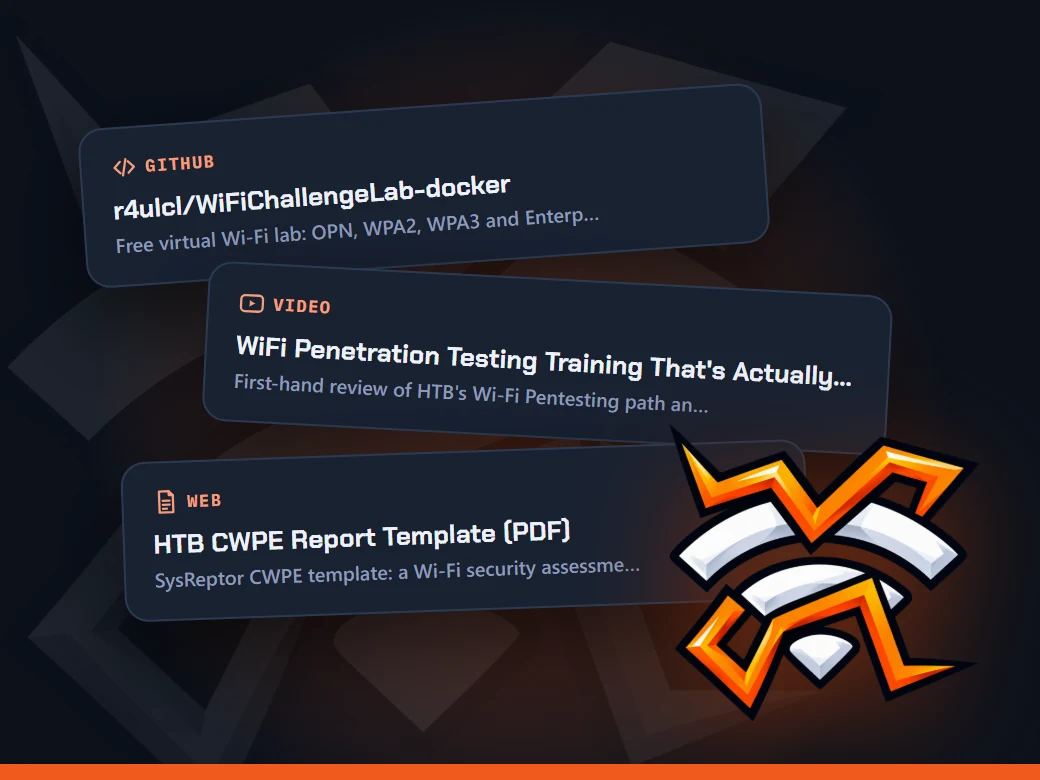
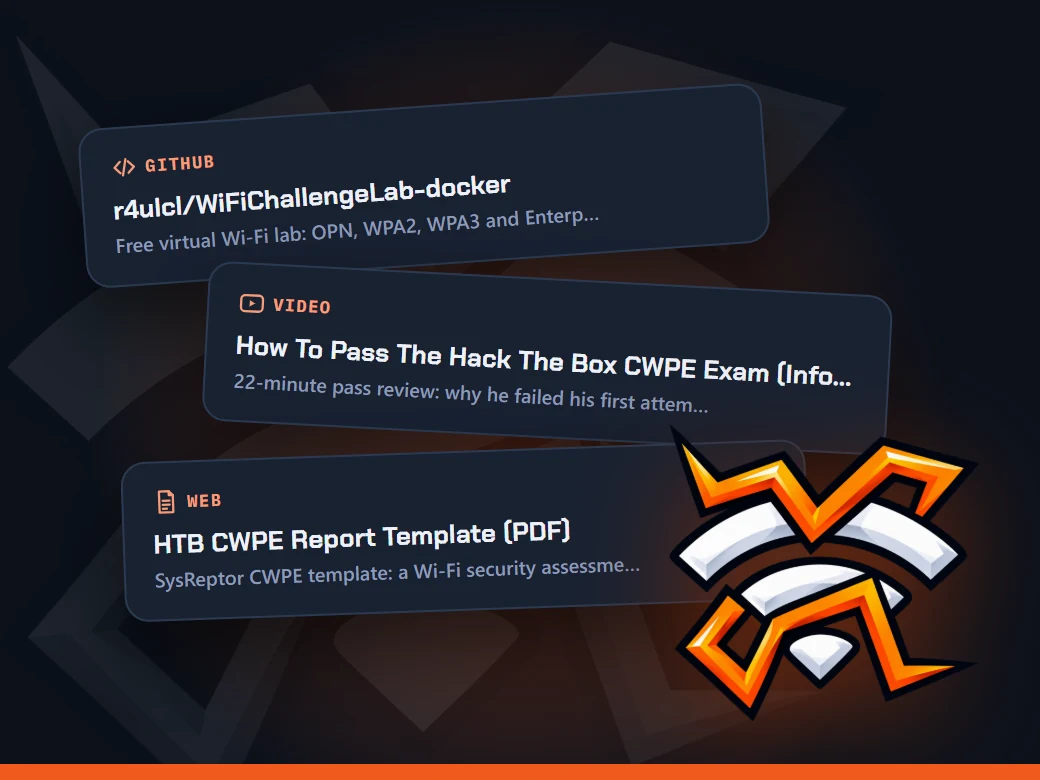
Add InfoSec Pat CWPE pass review as the Video favorite, plus his tips

Changed region(s): [[0.2154, 0.4308, 0.8, 0.5231]]

diff --git a/cwpe/resources/index.html b/cwpe/resources/index.html
@@ -184,18 +184,18 @@
 </div></header>
 <main class="in">
   <div class="panel">
-    <div class="big">52 <small>Links &middot; 10 Sections &middot; 11 Tips</small></div>
+    <div class="big">53 <small>Links &middot; 10 Sections &middot; 21 Tips</small></div>
     <p class="note">The same list is in the tracker's Resources tab. HTB Academy's path is all you need to pass the CWPE. These help you study it, compare notes with people who passed, and get the report right.</p>
   </div>
   <div class="ltabs" role="tablist">
     <button role="tab" id="tab_fav" aria-controls="pane_fav">Favorites<b>5</b></button>
-    <button role="tab" id="tab_all" aria-controls="pane_all">All Resources<b>52</b></button>
+    <button role="tab" id="tab_all" aria-controls="pane_all">All Resources<b>53</b></button>
     <button role="tab" id="tab_cost" aria-controls="pane_cost">What It Costs</button>
   </div>
   <div id="pane_fav" role="tabpanel" aria-labelledby="tab_fav" hidden><p class="favnote">My top picks for the CWPE, one for each part of your prep. They're starred in All Resources too.</p><div id="favs"></div></div>
   <div id="pane_all" role="tabpanel" aria-labelledby="tab_all" hidden>
     <div class="tb">
-      <div class="sw" id="sw"><input type="search" id="q" autocomplete="off" placeholder="Search 52 links" aria-label="Search links"><kbd>/</kbd><button id="clr" aria-label="Clear search">&times;</button></div>
+      <div class="sw" id="sw"><input type="search" id="q" autocomplete="off" placeholder="Search 53 links" aria-label="Search links"><kbd>/</kbd><button id="clr" aria-label="Clear search">&times;</button></div>
       <div class="seg" id="kf" role="group" aria-label="Type"></div>
       <span class="sp"></span>
       <button class="btn" id="ex">Expand all</button><button class="btn" id="co">Collapse all</button>
@@ -209,7 +209,7 @@
 <script>
 "use strict";
 (function () {
-const RL = {"code": "CWPE", "page": true, "res": [{"cat": "Community", "note": "Ask questions, compare notes, and keep up with other people working toward the cert.", "items": [{"n": "Hack The Box Discord", "u": "https://discord.gg/hackthebox", "note": "Official HTB community server", "k": "Community", "d": "discord.gg"}, {"n": "r/hackthebox", "u": "https://www.reddit.com/r/hackthebox/", "note": "HTB subreddit for help & discussion", "k": "Community", "d": "reddit.com"}]}, {"cat": "Official HTB: Cert & Path", "note": "Start here. You have to finish the path 100% to unlock the exam.", "items": [{"n": "HTB Certified Wi-Fi Pentesting Expert (CWPE)", "u": "https://academy.hackthebox.com/preview/certifications/htb-certified-wi-fi-pentesting-expert", "note": "Official certification page", "k": "Official", "d": "academy.hackthebox.com"}, {"n": "Wi-Fi Penetration Tester Job-Role Path", "u": "https://academy.hackthebox.com/path/preview/wi-fi-penetration-tester", "note": "10 modules · 170 sections · Hard", "k": "Official", "d": "academy.hackthebox.com"}, {"n": "Help Center: Academy Certifications", "u": "https://help.hackthebox.com/en/articles/12741732-academy-certifications", "note": "Official exam rules: attempts, report submission, results", "k": "Official", "d": "help.hackthebox.com"}, {"n": "HTB Academy", "u": "https://academy.hackthebox.com/", "note": "Subscription & dashboard", "k": "Official", "d": "academy.hackthebox.com"}, {"n": "HTB Labs", "u": "https://app.hackthebox.com/", "note": "Retired boxes and labs for practice", "k": "Official", "d": "app.hackthebox.com"}]}, {"cat": "HTB Academy Modules (in study order)", "note": "Work through these 10 in sequence. The plan follows this order.", "items": [{"n": "1 · Wi-Fi Penetration Testing Basics", "u": "https://academy.hackthebox.com/course/preview/wi-fi-penetration-testing-basics", "note": "16 sections · Medium", "k": "Official", "d": "academy.hackthebox.com"}, {"n": "2 · Attacking Wi-Fi Protected Setup (WPS)", "u": "https://academy.hackthebox.com/course/preview/attacking-wi-fi-protected-setup-wps", "note": "13 sections · Medium", "k": "Official", "d": "academy.hackthebox.com"}, {"n": "3 · Wired Equivalent Privacy (WEP) Attacks", "u": "https://academy.hackthebox.com/course/preview/wired-equivalent-privacy-wep-attacks", "note": "13 sections · Medium", "k": "Official", "d": "academy.hackthebox.com"}, {"n": "4 · Attacking WPA/WPA2 Wi-Fi Networks", "u": "https://academy.hackthebox.com/course/preview/attacking-wpawpa2-wi-fi-networks", "note": "15 sections · Medium", "k": "Official", "d": "academy.hackthebox.com"}, {"n": "5 · Wi-Fi Evil Twin Attacks", "u": "https://academy.hackthebox.com/course/preview/wi-fi-evil-twin-attacks", "note": "16 sections · Medium", "k": "Official", "d": "academy.hackthebox.com"}, {"n": "6 · Attacking WPA3 Wi-Fi Networks", "u": "https://academy.hackthebox.com/course/preview/attacking-wpa3-wi-fi-networks", "note": "16 sections · Medium", "k": "Official", "d": "academy.hackthebox.com"}, {"n": "7 · Bypassing Wi-Fi Captive Portals", "u": "https://academy.hackthebox.com/course/preview/bypassing-wi-fi-captive-portals", "note": "17 sections · Medium", "k": "Official", "d": "academy.hackthebox.com"}, {"n": "8 · Wi-Fi Password Cracking Techniques", "u": "https://academy.hackthebox.com/course/preview/wi-fi-password-cracking-techniques", "note": "16 sections · Medium", "k": "Official", "d": "academy.hackthebox.com"}, {"n": "9 · Wi-Fi Penetration Testing Tools and Techniques", "u": "https://academy.hackthebox.com/course/preview/wi-fi-penetration-testing-tools-and-techniques", "note": "30 sections · Medium", "k": "Official", "d": "academy.hackthebox.com"}, {"n": "10 · Attacking Corporate Wi-Fi Networks", "u": "https://academy.hackthebox.com/course/preview/attacking-corporate-wi-fi-networks", "note": "18 sections · Medium", "k": "Official", "d": "academy.hackthebox.com"}]}, {"cat": "Video Series & Reviews", "note": "Watch this before you start to set expectations. It reviews the Wi-Fi Pentesting path that preps for CWPE.", "items": [{"n": "WiFi Penetration Testing Training That's Actually Worth It (HaxrByte)", "u": "https://www.youtube.com/watch?v=uaQFFFh6Y6A", "note": "First-hand review of HTB's Wi-Fi Pentesting path and the CWPE exam", "k": "Video", "d": "youtube.com"}]}, {"cat": "News & Overviews", "note": "CWPE launched in 2026, so there are no exam-taker write-ups yet. These are HTB's own overviews.", "items": [{"n": "Bring your attack surface to the air: HTB CWPE (HTB blog)", "u": "https://www.hackthebox.com/blog/HTB-CWPE-announcement-blog", "note": "Official launch post: exam format and the protocols covered", "k": "Official", "d": "hackthebox.com"}, {"n": "Enterprise Wi-Fi: the attack surface you're not testing (HTB blog)", "u": "https://www.hackthebox.com/blog/enterprise-wifi-pentesting-risk-cwpe", "note": "Why HTB built the cert and what it targets", "k": "Official", "d": "hackthebox.com"}, {"n": "Introducing the HTB CWPE (HTB changelog)", "u": "https://roadmap.hackthebox.com/changelog/introducing-the-htb-certified-wi-fi-pentesting-expert-cwpe", "note": "Short changelog confirming the cloud exam and path", "k": "Official", "d": "roadmap.hackthebox.com"}]}, {"cat": "Community Notes & Walkthroughs", "note": "No CWPE-specific notes exist yet, so these are general wireless references. Use them to unblock yourself, not to shortcut the labs.", "items": [{"n": "V0lk3n/WirelessPentesting-CheatSheet", "u": "https://github.com/V0lk3n/WirelessPentesting-CheatSheet", "note": "Broad Wi-Fi cracking cheat sheet: WEP, WPA, aircrack-ng", "k": "GitHub", "d": "github.com"}, {"n": "armourinfosec/Wireless-Security-and-WiFi-Penetration-Testing", "u": "https://github.com/armourinfosec/Wireless-Security-and-WiFi-Penetration-Testing", "note": "Study notes on 802.11 and WEP/WPA/WPA2/WPA3", "k": "GitHub", "d": "github.com"}, {"n": "touhidshaikh/Wireless-Pentest-Cheatsheet", "u": "https://github.com/touhidshaikh/Wireless-Pentest-Cheatsheet", "note": "Concise Wi-Fi and wireless cheat sheet", "k": "GitHub", "d": "github.com"}, {"n": "HackTricks: Wi-Fi Pentesting Methodology", "u": "https://hacktricks.wiki/en/generic-methodologies-and-resources/pentesting-wifi/index.html", "note": "Structured Wi-Fi assessment methodology, from recon to retesting", "k": "Web", "d": "hacktricks.wiki"}]}, {"cat": "Reporting & Exam Prep", "note": "The report is graded alongside the points, so practice the deliverable, not just the attacks.", "items": [{"n": "HTB CWPE Report Template (PDF)", "u": "https://docs.sysreptor.com/assets/reports/HTB-CWPE-Report.pdf", "note": "SysReptor CWPE template: a Wi-Fi security assessment report of findings", "k": "Web", "d": "docs.sysreptor.com"}, {"n": "Syslifters/HackTheBox-Reporting", "u": "https://github.com/Syslifters/HackTheBox-Reporting", "note": "SysReptor templates, including HTB CWPE", "k": "GitHub", "d": "github.com"}, {"n": "SysReptor (reporting platform)", "u": "https://github.com/Syslifters/sysreptor", "note": "Self-hosted or cloud report writing", "k": "GitHub", "d": "github.com"}]}, {"cat": "Tooling & References", "note": "Be comfortable with these before the exam.", "items": [{"n": "Aircrack-ng", "u": "https://www.aircrack-ng.org/", "note": "The core Wi-Fi capture and cracking suite", "k": "Web", "d": "aircrack-ng.org"}, {"n": "Kismet", "u": "https://www.kismetwireless.net/", "note": "Wireless detection and sniffing", "k": "Web", "d": "kismetwireless.net"}, {"n": "Wifite2", "u": "https://github.com/kimocoder/wifite2", "note": "Automated Wi-Fi attack wrapper", "k": "GitHub", "d": "github.com"}, {"n": "hashcat", "u": "https://hashcat.net/hashcat/", "note": "GPU password and handshake cracking", "k": "Web", "d": "hashcat.net"}, {"n": "hcxtools", "u": "https://github.com/ZerBea/hcxtools", "note": "PMKID and handshake capture and conversion", "k": "GitHub", "d": "github.com"}, {"n": "Airgeddon", "u": "https://github.com/v1s1t0r1sh3r3/airgeddon", "note": "Multi-use Wi-Fi attack framework", "k": "GitHub", "d": "github.com"}, {"n": "EAPHammer", "u": "https://github.com/s0lst1c3/eaphammer", "note": "WPA-Enterprise evil twin attacks", "k": "GitHub", "d": "github.com"}, {"n": "Wifipumpkin3", "u": "https://github.com/P0cL4bs/wifipumpkin3", "note": "Rogue AP and MiTM framework", "k": "GitHub", "d": "github.com"}, {"n": "Bettercap", "u": "https://github.com/bettercap/bettercap", "note": "Network and Wi-Fi MiTM toolkit", "k": "GitHub", "d": "github.com"}, {"n": "Reaver", "u": "https://github.com/t6x/reaver-wps-fork-t6x", "note": "WPS PIN and Pixie Dust attacks", "k": "GitHub", "d": "github.com"}, {"n": "Fluxion", "u": "https://github.com/FluxionNetwork/fluxion", "note": "Evil twin and captive portal attacks", "k": "GitHub", "d": "github.com"}, {"n": "hostapd", "u": "https://w1.fi/hostapd/", "note": "The open-source AP and 802.1X/EAP/RADIUS daemon behind most rogue AP tools", "k": "Web", "d": "w1.fi"}, {"n": "b5null/EAPBurst", "u": "https://github.com/b5null/EAPBurst", "note": "Tests PEAP/MSCHAPv2 logins against a WPA-Enterprise network from a username and password list", "k": "GitHub", "d": "github.com"}, {"n": "ZerBea/hcxdumptool", "u": "https://github.com/ZerBea/hcxdumptool", "note": "Capture tool for PMKID and handshakes, the companion to hcxtools", "k": "GitHub", "d": "github.com"}]}, {"cat": "Wireless References", "note": "Background and reference beyond the path.", "items": [{"n": "Wi-Fi Alliance: Security", "u": "https://www.wi-fi.org/discover-wi-fi/security", "note": "The standards behind WPA2 and WPA3", "k": "Web", "d": "wi-fi.org"}, {"n": "Aircrack-ng documentation", "u": "https://www.aircrack-ng.org/documentation.html", "note": "Tutorials for each tool in the suite", "k": "Web", "d": "aircrack-ng.org"}, {"n": "WiGLE", "u": "https://wigle.net/", "note": "Wireless network mapping database", "k": "Web", "d": "wigle.net"}, {"n": "Dragonblood: Analysing WPA3's Dragonfly Handshake (Vanhoef, Ronen)", "u": "https://wpa3.mathyvanhoef.com/", "note": "The original research on WPA3-SAE weaknesses and downgrade issues", "k": "Web", "d": "wpa3.mathyvanhoef.com"}, {"n": "KRACK Attacks: Breaking WPA2 (Vanhoef)", "u": "https://www.krackattacks.com/", "note": "Research site on the WPA2 4-way handshake key reinstallation flaws", "k": "Web", "d": "krackattacks.com"}, {"n": "RFC 3748: Extensible Authentication Protocol (EAP)", "u": "https://www.rfc-editor.org/rfc/rfc3748", "note": "The EAP standard used by WPA-Enterprise", "k": "Web", "d": "rfc-editor.org"}, {"n": "Wireshark Wiki: Wi-Fi (IEEE 802.11)", "u": "https://wiki.wireshark.org/Wi-Fi", "note": "802.11 capture types, monitor mode notes and decryption pointers", "k": "Web", "d": "wiki.wireshark.org"}]}, {"cat": "Practice Labs & Home Lab", "note": "The exam runs in HTB's cloud, so these are optional: extra reps and gear for a home lab.", "items": [{"n": "r4ulcl/WiFiChallengeLab-docker", "u": "https://github.com/r4ulcl/WiFiChallengeLab-docker", "note": "Free virtual Wi-Fi lab: OPN, WPA2, WPA3 and Enterprise targets, no adapter needed", "k": "GitHub", "d": "github.com"}, {"n": "HTB: Wifinetic (0xdf)", "u": "https://0xdf.gitlab.io/2023/09/16/htb-wifinetic.html", "note": "Write-up of a retired Easy HTB box with a Wi-Fi (WPS) step", "k": "Web", "d": "0xdf.gitlab.io"}, {"n": "HTB: WifineticTwo (0xdf)", "u": "https://0xdf.gitlab.io/2024/07/27/htb-wifinetictwo.html", "note": "Write-up of a retired Medium HTB box that ends in a WPS and router pivot", "k": "Web", "d": "0xdf.gitlab.io"}]}, {"cat": "Study & Prep Tips", "note": "CWPE is new, so these come from HTB's official guidance and wireless-pentest references, not exam-takers.", "layout": "tips", "items": [{"n": "Finish the full Wi-Fi Penetration Tester path before booking", "note": "JXoaT"}, {"n": "Practice full corporate Wi-Fi attack chains end to end", "note": "JXoaT"}, {"n": "Read the letter of engagement and stay in scope", "note": "JXoaT"}, {"n": "Document every finding with remediation in the template", "note": "JXoaT"}, {"n": "Drill evil twin and captive portal bypass attacks", "note": "JXoaT"}, {"n": "Get fluent in eaphammer and wifipumpkin3 for WPA-Enterprise", "note": "JXoaT"}, {"n": "Master aircrack-ng capture and handshake cracking basics", "note": "V0lk3n"}, {"n": "Set your adapter to monitor mode and channel before capturing", "note": "V0lk3n"}, {"n": "Keep your methodology's per-attack commands within reach", "note": "V0lk3n"}, {"n": "Study the differences between WEP, WPA, WPA2 and WPA3", "note": "armourinfosec"}, {"n": "Learn the full methodology from 802.11 basics up to WPA2-Enterprise RADIUS attacks", "note": "HaxrByte"}]}], "fav": [{"slot": "Start here", "n": "HTB Certified Wi-Fi Pentesting Expert (CWPE)", "u": "https://academy.hackthebox.com/preview/certifications/htb-certified-wi-fi-pentesting-expert", "note": "Official certification page", "k": "Official", "d": "academy.hackthebox.com", "sec": "Official HTB: Cert & Path"}, {"slot": "Practice", "n": "r4ulcl/WiFiChallengeLab-docker", "u": "https://github.com/r4ulcl/WiFiChallengeLab-docker", "note": "Free virtual Wi-Fi lab: OPN, WPA2, WPA3 and Enterprise targets, no adapter needed", "k": "GitHub", "d": "github.com", "sec": "Practice Labs & Home Lab"}, {"slot": "Report", "n": "HTB CWPE Report Template (PDF)", "u": "https://docs.sysreptor.com/assets/reports/HTB-CWPE-Report.pdf", "note": "SysReptor CWPE template: a Wi-Fi security assessment report of findings", "k": "Web", "d": "docs.sysreptor.com", "sec": "Reporting & Exam Prep"}, {"slot": "Notes", "n": "armourinfosec/Wireless-Security-and-WiFi-Penetration-Testing", "u": "https://github.com/armourinfosec/Wireless-Security-and-WiFi-Penetration-Testing", "note": "Study notes on 802.11 and WEP/WPA/WPA2/WPA3", "k": "GitHub", "d": "github.com", "sec": "Community Notes & Walkthroughs"}, {"slot": "Video", "n": "WiFi Penetration Testing Training That's Actually Worth It (HaxrByte)", "u": "https://www.youtube.com/watch?v=uaQFFFh6Y6A", "note": "First-hand review of HTB's Wi-Fi Pentesting path and the CWPE exam", "k": "Video", "d": "youtube.com", "sec": "Video Series & Reviews"}], "cost": {"code": "CWPE", "v": 350, "labs": "", "plans": [{"k": "gold", "n": "Gold monthly", "per": 95, "unit": "mo", "inc": false, "student": false, "over": false}, {"k": "gold_y", "n": "Gold Annual", "per": 1400, "unit": "yr", "inc": true, "student": false, "over": false}], "labsPrice": {"mo": 25, "yr": 223}, "proPrice": {"mo": 49, "yr": 490}}, "modes": [25, 30, 40, 60, 120], "defaultMode": 25, "trackerKey": "cwpe_tracker_v2", "costFine": "Academy prices from October 12, 2026 and Labs prices from October 2, 2026, in USD before tax. Days are rounded up to whole months (30 days each), and you can cancel sooner if you finish early. Plans change, so check HTB's <a href=\"https://help.hackthebox.com/en/articles/13677074-academy-subscriptions\" target=\"_blank\" rel=\"noopener\">Academy<\/a> and <a href=\"https://help.hackthebox.com/en/articles/7257535-htb-labs-subscriptions\" target=\"_blank\" rel=\"noopener\">Labs<\/a> subscription pages before you buy."};
+const RL = {"code": "CWPE", "page": true, "res": [{"cat": "Community", "note": "Ask questions, compare notes, and keep up with other people working toward the cert.", "items": [{"n": "Hack The Box Discord", "u": "https://discord.gg/hackthebox", "note": "Official HTB community server", "k": "Community", "d": "discord.gg"}, {"n": "r/hackthebox", "u": "https://www.reddit.com/r/hackthebox/", "note": "HTB subreddit for help & discussion", "k": "Community", "d": "reddit.com"}]}, {"cat": "Official HTB: Cert & Path", "note": "Start here. You have to finish the path 100% to unlock the exam.", "items": [{"n": "HTB Certified Wi-Fi Pentesting Expert (CWPE)", "u": "https://academy.hackthebox.com/preview/certifications/htb-certified-wi-fi-pentesting-expert", "note": "Official certification page", "k": "Official", "d": "academy.hackthebox.com"}, {"n": "Wi-Fi Penetration Tester Job-Role Path", "u": "https://academy.hackthebox.com/path/preview/wi-fi-penetration-tester", "note": "10 modules · 170 sections · Hard", "k": "Official", "d": "academy.hackthebox.com"}, {"n": "Help Center: Academy Certifications", "u": "https://help.hackthebox.com/en/articles/12741732-academy-certifications", "note": "Official exam rules: attempts, report submission, results", "k": "Official", "d": "help.hackthebox.com"}, {"n": "HTB Academy", "u": "https://academy.hackthebox.com/", "note": "Subscription & dashboard", "k": "Official", "d": "academy.hackthebox.com"}, {"n": "HTB Labs", "u": "https://app.hackthebox.com/", "note": "Retired boxes and labs for practice", "k": "Official", "d": "app.hackthebox.com"}]}, {"cat": "HTB Academy Modules (in study order)", "note": "Work through these 10 in sequence. The plan follows this order.", "items": [{"n": "1 · Wi-Fi Penetration Testing Basics", "u": "https://academy.hackthebox.com/course/preview/wi-fi-penetration-testing-basics", "note": "16 sections · Medium", "k": "Official", "d": "academy.hackthebox.com"}, {"n": "2 · Attacking Wi-Fi Protected Setup (WPS)", "u": "https://academy.hackthebox.com/course/preview/attacking-wi-fi-protected-setup-wps", "note": "13 sections · Medium", "k": "Official", "d": "academy.hackthebox.com"}, {"n": "3 · Wired Equivalent Privacy (WEP) Attacks", "u": "https://academy.hackthebox.com/course/preview/wired-equivalent-privacy-wep-attacks", "note": "13 sections · Medium", "k": "Official", "d": "academy.hackthebox.com"}, {"n": "4 · Attacking WPA/WPA2 Wi-Fi Networks", "u": "https://academy.hackthebox.com/course/preview/attacking-wpawpa2-wi-fi-networks", "note": "15 sections · Medium", "k": "Official", "d": "academy.hackthebox.com"}, {"n": "5 · Wi-Fi Evil Twin Attacks", "u": "https://academy.hackthebox.com/course/preview/wi-fi-evil-twin-attacks", "note": "16 sections · Medium", "k": "Official", "d": "academy.hackthebox.com"}, {"n": "6 · Attacking WPA3 Wi-Fi Networks", "u": "https://academy.hackthebox.com/course/preview/attacking-wpa3-wi-fi-networks", "note": "16 sections · Medium", "k": "Official", "d": "academy.hackthebox.com"}, {"n": "7 · Bypassing Wi-Fi Captive Portals", "u": "https://academy.hackthebox.com/course/preview/bypassing-wi-fi-captive-portals", "note": "17 sections · Medium", "k": "Official", "d": "academy.hackthebox.com"}, {"n": "8 · Wi-Fi Password Cracking Techniques", "u": "https://academy.hackthebox.com/course/preview/wi-fi-password-cracking-techniques", "note": "16 sections · Medium", "k": "Official", "d": "academy.hackthebox.com"}, {"n": "9 · Wi-Fi Penetration Testing Tools and Techniques", "u": "https://academy.hackthebox.com/course/preview/wi-fi-penetration-testing-tools-and-techniques", "note": "30 sections · Medium", "k": "Official", "d": "academy.hackthebox.com"}, {"n": "10 · Attacking Corporate Wi-Fi Networks", "u": "https://academy.hackthebox.com/course/preview/attacking-corporate-wi-fi-networks", "note": "18 sections · Medium", "k": "Official", "d": "academy.hackthebox.com"}]}, {"cat": "Video Series & Reviews", "note": "Watch these before you start to set expectations for the Wi-Fi Pentesting path and the CWPE exam.", "items": [{"n": "WiFi Penetration Testing Training That's Actually Worth It (HaxrByte)", "u": "https://www.youtube.com/watch?v=uaQFFFh6Y6A", "note": "First-hand review of HTB's Wi-Fi Pentesting path and the CWPE exam", "k": "Video", "d": "youtube.com"}, {"n": "How To Pass The Hack The Box CWPE Exam (InfoSec Pat)", "u": "https://www.youtube.com/watch?v=4-Xlki7Noqg", "note": "22-minute pass review: why he failed his first attempt, his methodology, and how to prepare", "k": "Video", "d": "youtube.com"}]}, {"cat": "News & Overviews", "note": "These are HTB's own overviews of the cert.", "items": [{"n": "Bring your attack surface to the air: HTB CWPE (HTB blog)", "u": "https://www.hackthebox.com/blog/HTB-CWPE-announcement-blog", "note": "Official launch post: exam format and the protocols covered", "k": "Official", "d": "hackthebox.com"}, {"n": "Enterprise Wi-Fi: the attack surface you're not testing (HTB blog)", "u": "https://www.hackthebox.com/blog/enterprise-wifi-pentesting-risk-cwpe", "note": "Why HTB built the cert and what it targets", "k": "Official", "d": "hackthebox.com"}, {"n": "Introducing the HTB CWPE (HTB changelog)", "u": "https://roadmap.hackthebox.com/changelog/introducing-the-htb-certified-wi-fi-pentesting-expert-cwpe", "note": "Short changelog confirming the cloud exam and path", "k": "Official", "d": "roadmap.hackthebox.com"}]}, {"cat": "Community Notes & Walkthroughs", "note": "No CWPE-specific notes exist yet, so these are general wireless references. Use them to unblock yourself, not to shortcut the labs.", "items": [{"n": "V0lk3n/WirelessPentesting-CheatSheet", "u": "https://github.com/V0lk3n/WirelessPentesting-CheatSheet", "note": "Broad Wi-Fi cracking cheat sheet: WEP, WPA, aircrack-ng", "k": "GitHub", "d": "github.com"}, {"n": "armourinfosec/Wireless-Security-and-WiFi-Penetration-Testing", "u": "https://github.com/armourinfosec/Wireless-Security-and-WiFi-Penetration-Testing", "note": "Study notes on 802.11 and WEP/WPA/WPA2/WPA3", "k": "GitHub", "d": "github.com"}, {"n": "touhidshaikh/Wireless-Pentest-Cheatsheet", "u": "https://github.com/touhidshaikh/Wireless-Pentest-Cheatsheet", "note": "Concise Wi-Fi and wireless cheat sheet", "k": "GitHub", "d": "github.com"}, {"n": "HackTricks: Wi-Fi Pentesting Methodology", "u": "https://hacktricks.wiki/en/generic-methodologies-and-resources/pentesting-wifi/index.html", "note": "Structured Wi-Fi assessment methodology, from recon to retesting", "k": "Web", "d": "hacktricks.wiki"}]}, {"cat": "Reporting & Exam Prep", "note": "The report is graded alongside the points, so practice the deliverable, not just the attacks.", "items": [{"n": "HTB CWPE Report Template (PDF)", "u": "https://docs.sysreptor.com/assets/reports/HTB-CWPE-Report.pdf", "note": "SysReptor CWPE template: a Wi-Fi security assessment report of findings", "k": "Web", "d": "docs.sysreptor.com"}, {"n": "Syslifters/HackTheBox-Reporting", "u": "https://github.com/Syslifters/HackTheBox-Reporting", "note": "SysReptor templates, including HTB CWPE", "k": "GitHub", "d": "github.com"}, {"n": "SysReptor (reporting platform)", "u": "https://github.com/Syslifters/sysreptor", "note": "Self-hosted or cloud report writing", "k": "GitHub", "d": "github.com"}]}, {"cat": "Tooling & References", "note": "Be comfortable with these before the exam.", "items": [{"n": "Aircrack-ng", "u": "https://www.aircrack-ng.org/", "note": "The core Wi-Fi capture and cracking suite", "k": "Web", "d": "aircrack-ng.org"}, {"n": "Kismet", "u": "https://www.kismetwireless.net/", "note": "Wireless detection and sniffing", "k": "Web", "d": "kismetwireless.net"}, {"n": "Wifite2", "u": "https://github.com/kimocoder/wifite2", "note": "Automated Wi-Fi attack wrapper", "k": "GitHub", "d": "github.com"}, {"n": "hashcat", "u": "https://hashcat.net/hashcat/", "note": "GPU password and handshake cracking", "k": "Web", "d": "hashcat.net"}, {"n": "hcxtools", "u": "https://github.com/ZerBea/hcxtools", "note": "PMKID and handshake capture and conversion", "k": "GitHub", "d": "github.com"}, {"n": "Airgeddon", "u": "https://github.com/v1s1t0r1sh3r3/airgeddon", "note": "Multi-use Wi-Fi attack framework", "k": "GitHub", "d": "github.com"}, {"n": "EAPHammer", "u": "https://github.com/s0lst1c3/eaphammer", "note": "WPA-Enterprise evil twin attacks", "k": "GitHub", "d": "github.com"}, {"n": "Wifipumpkin3", "u": "https://github.com/P0cL4bs/wifipumpkin3", "note": "Rogue AP and MiTM framework", "k": "GitHub", "d": "github.com"}, {"n": "Bettercap", "u": "https://github.com/bettercap/bettercap", "note": "Network and Wi-Fi MiTM toolkit", "k": "GitHub", "d": "github.com"}, {"n": "Reaver", "u": "https://github.com/t6x/reaver-wps-fork-t6x", "note": "WPS PIN and Pixie Dust attacks", "k": "GitHub", "d": "github.com"}, {"n": "Fluxion", "u": "https://github.com/FluxionNetwork/fluxion", "note": "Evil twin and captive portal attacks", "k": "GitHub", "d": "github.com"}, {"n": "hostapd", "u": "https://w1.fi/hostapd/", "note": "The open-source AP and 802.1X/EAP/RADIUS daemon behind most rogue AP tools", "k": "Web", "d": "w1.fi"}, {"n": "b5null/EAPBurst", "u": "https://github.com/b5null/EAPBurst", "note": "Tests PEAP/MSCHAPv2 logins against a WPA-Enterprise network from a username and password list", "k": "GitHub", "d": "github.com"}, {"n": "ZerBea/hcxdumptool", "u": "https://github.com/ZerBea/hcxdumptool", "note": "Capture tool for PMKID and handshakes, the companion to hcxtools", "k": "GitHub", "d": "github.com"}]}, {"cat": "Wireless References", "note": "Background and reference beyond the path.", "items": [{"n": "Wi-Fi Alliance: Security", "u": "https://www.wi-fi.org/discover-wi-fi/security", "note": "The standards behind WPA2 and WPA3", "k": "Web", "d": "wi-fi.org"}, {"n": "Aircrack-ng documentation", "u": "https://www.aircrack-ng.org/documentation.html", "note": "Tutorials for each tool in the suite", "k": "Web", "d": "aircrack-ng.org"}, {"n": "WiGLE", "u": "https://wigle.net/", "note": "Wireless network mapping database", "k": "Web", "d": "wigle.net"}, {"n": "Dragonblood: Analysing WPA3's Dragonfly Handshake (Vanhoef, Ronen)", "u": "https://wpa3.mathyvanhoef.com/", "note": "The original research on WPA3-SAE weaknesses and downgrade issues", "k": "Web", "d": "wpa3.mathyvanhoef.com"}, {"n": "KRACK Attacks: Breaking WPA2 (Vanhoef)", "u": "https://www.krackattacks.com/", "note": "Research site on the WPA2 4-way handshake key reinstallation flaws", "k": "Web", "d": "krackattacks.com"}, {"n": "RFC 3748: Extensible Authentication Protocol (EAP)", "u": "https://www.rfc-editor.org/rfc/rfc3748", "note": "The EAP standard used by WPA-Enterprise", "k": "Web", "d": "rfc-editor.org"}, {"n": "Wireshark Wiki: Wi-Fi (IEEE 802.11)", "u": "https://wiki.wireshark.org/Wi-Fi", "note": "802.11 capture types, monitor mode notes and decryption pointers", "k": "Web", "d": "wiki.wireshark.org"}]}, {"cat": "Practice Labs & Home Lab", "note": "The exam runs in HTB's cloud, so these are optional: extra reps and gear for a home lab.", "items": [{"n": "r4ulcl/WiFiChallengeLab-docker", "u": "https://github.com/r4ulcl/WiFiChallengeLab-docker", "note": "Free virtual Wi-Fi lab: OPN, WPA2, WPA3 and Enterprise targets, no adapter needed", "k": "GitHub", "d": "github.com"}, {"n": "HTB: Wifinetic (0xdf)", "u": "https://0xdf.gitlab.io/2023/09/16/htb-wifinetic.html", "note": "Write-up of a retired Easy HTB box with a Wi-Fi (WPS) step", "k": "Web", "d": "0xdf.gitlab.io"}, {"n": "HTB: WifineticTwo (0xdf)", "u": "https://0xdf.gitlab.io/2024/07/27/htb-wifinetictwo.html", "note": "Write-up of a retired Medium HTB box that ends in a WPS and router pivot", "k": "Web", "d": "0xdf.gitlab.io"}]}, {"cat": "Study & Prep Tips", "note": "CWPE is new, so exam-taker tips are still rare. InfoSec Pat's come from passing the exam. The rest come from HTB's official guidance, a path review and wireless-pentest references.", "layout": "tips", "items": [{"n": "Go through the path twice: the first time to do it, the second to really understand it", "note": "InfoSec Pat"}, {"n": "Don't book the exam just because you finished the path, since completing a module isn't the same as understanding it", "note": "InfoSec Pat"}, {"n": "Read the rules of engagement closely, because missing something there cost him his first attempt", "note": "InfoSec Pat"}, {"n": "Slow down and identify the technology in use before you pick a tool", "note": "InfoSec Pat"}, {"n": "Follow one method: scope, enumerate networks, identify authentication, map attack paths, then validate a technique", "note": "InfoSec Pat"}, {"n": "Document evidence and business impact as you go, then finish with a professional report", "note": "InfoSec Pat"}, {"n": "Keep a notebook organized by topic, tool, command, attack path and remediation, since you'll need it for the report", "note": "InfoSec Pat"}, {"n": "Know the four-way handshake, why password attacks work on WPA and WPA2, and how WPA3 changes that", "note": "InfoSec Pat"}, {"n": "Understand 802.1X, EAP, RADIUS and certificate-based authentication for corporate Wi-Fi", "note": "InfoSec Pat"}, {"n": "Practice the path from the wireless network into the internal network", "note": "InfoSec Pat"}, {"n": "Finish the full Wi-Fi Penetration Tester path before booking", "note": "JXoaT"}, {"n": "Practice full corporate Wi-Fi attack chains end to end", "note": "JXoaT"}, {"n": "Read the letter of engagement and stay in scope", "note": "JXoaT"}, {"n": "Document every finding with remediation in the template", "note": "JXoaT"}, {"n": "Drill evil twin and captive portal bypass attacks", "note": "JXoaT"}, {"n": "Get fluent in eaphammer and wifipumpkin3 for WPA-Enterprise", "note": "JXoaT"}, {"n": "Master aircrack-ng capture and handshake cracking basics", "note": "V0lk3n"}, {"n": "Set your adapter to monitor mode and channel before capturing", "note": "V0lk3n"}, {"n": "Keep your methodology's per-attack commands within reach", "note": "V0lk3n"}, {"n": "Study the differences between WEP, WPA, WPA2 and WPA3", "note": "armourinfosec"}, {"n": "Learn the full methodology from 802.11 basics up to WPA2-Enterprise RADIUS attacks", "note": "HaxrByte"}]}], "fav": [{"slot": "Start here", "n": "HTB Certified Wi-Fi Pentesting Expert (CWPE)", "u": "https://academy.hackthebox.com/preview/certifications/htb-certified-wi-fi-pentesting-expert", "note": "Official certification page", "k": "Official", "d": "academy.hackthebox.com", "sec": "Official HTB: Cert & Path"}, {"slot": "Practice", "n": "r4ulcl/WiFiChallengeLab-docker", "u": "https://github.com/r4ulcl/WiFiChallengeLab-docker", "note": "Free virtual Wi-Fi lab: OPN, WPA2, WPA3 and Enterprise targets, no adapter needed", "k": "GitHub", "d": "github.com", "sec": "Practice Labs & Home Lab"}, {"slot": "Report", "n": "HTB CWPE Report Template (PDF)", "u": "https://docs.sysreptor.com/assets/reports/HTB-CWPE-Report.pdf", "note": "SysReptor CWPE template: a Wi-Fi security assessment report of findings", "k": "Web", "d": "docs.sysreptor.com", "sec": "Reporting & Exam Prep"}, {"slot": "Notes", "n": "armourinfosec/Wireless-Security-and-WiFi-Penetration-Testing", "u": "https://github.com/armourinfosec/Wireless-Security-and-WiFi-Penetration-Testing", "note": "Study notes on 802.11 and WEP/WPA/WPA2/WPA3", "k": "GitHub", "d": "github.com", "sec": "Community Notes & Walkthroughs"}, {"slot": "Video", "n": "How To Pass The Hack The Box CWPE Exam (InfoSec Pat)", "u": "https://www.youtube.com/watch?v=4-Xlki7Noqg", "note": "22-minute pass review: why he failed his first attempt, his methodology, and how to prepare", "k": "Video", "d": "youtube.com", "sec": "Video Series & Reviews"}], "cost": {"code": "CWPE", "v": 350, "labs": "", "plans": [{"k": "gold", "n": "Gold monthly", "per": 95, "unit": "mo", "inc": false, "student": false, "over": false}, {"k": "gold_y", "n": "Gold Annual", "per": 1400, "unit": "yr", "inc": true, "student": false, "over": false}], "labsPrice": {"mo": 25, "yr": 223}, "proPrice": {"mo": 49, "yr": 490}}, "modes": [25, 30, 40, 60, 120], "defaultMode": 25, "trackerKey": "cwpe_tracker_v2", "costFine": "Academy prices from October 12, 2026 and Labs prices from October 2, 2026, in USD before tax. Days are rounded up to whole months (30 days each), and you can cancel sooner if you finish early. Plans change, so check HTB's <a href=\"https://help.hackthebox.com/en/articles/13677074-academy-subscriptions\" target=\"_blank\" rel=\"noopener\">Academy<\/a> and <a href=\"https://help.hackthebox.com/en/articles/7257535-htb-labs-subscriptions\" target=\"_blank\" rel=\"noopener\">Labs<\/a> subscription pages before you buy."};
 /* Favorites + All Resources, on the Resources page and in the tracker's Resources tab. Needs RL (data) from the builder;
    the page adds resources-cost.js. Both run inside one function, so these names don't clash with the tracker's. */
 const $ = id => document.getElementById(id);

diff --git a/cwpe/tracker/index.html b/cwpe/tracker/index.html
@@ -664,17 +664,17 @@
   <!-- Resources -->
   <div id="tab-resources" class="hidden">
   <div class="panel">
-    <div class="big">52 <small>Links &middot; 10 Sections &middot; 11 Tips</small></div>
+    <div class="big">53 <small>Links &middot; 10 Sections &middot; 21 Tips</small></div>
     <p class="note">Also on its own page: <a href="https://cnmoseman.github.io/htb-study-trackers/cwpe/resources/" target="_blank" rel="noopener">CWPE Resources</a>. HTB Academy's path is all you need to pass the CWPE. These help you study it, compare notes with people who passed, and get the report right.</p>
   </div>
   <div class="ltabs" role="tablist">
     <button role="tab" id="tab_fav" aria-controls="pane_fav">Favorites<b>5</b></button>
-    <button role="tab" id="tab_all" aria-controls="pane_all">All Resources<b>52</b></button>
+    <button role="tab" id="tab_all" aria-controls="pane_all">All Resources<b>53</b></button>
   </div>
   <div id="pane_fav" role="tabpanel" aria-labelledby="tab_fav" hidden><p class="favnote">My top picks for the CWPE, one for each part of your prep. They're starred in All Resources too.</p><div id="favs"></div></div>
   <div id="pane_all" role="tabpanel" aria-labelledby="tab_all" hidden>
     <div class="tb">
-      <div class="sw" id="sw"><input type="search" id="q" autocomplete="off" placeholder="Search 52 links" aria-label="Search links"><kbd>/</kbd><button id="clr" aria-label="Clear search">&times;</button></div>
+      <div class="sw" id="sw"><input type="search" id="q" autocomplete="off" placeholder="Search 53 links" aria-label="Search links"><kbd>/</kbd><button id="clr" aria-label="Clear search">&times;</button></div>
       <div class="seg" id="kf" role="group" aria-label="Type"></div>
       <span class="sp"></span>
       <button class="btn" id="ex">Expand all</button><button class="btn" id="co">Collapse all</button>
@@ -711,11 +711,11 @@
 
       <h3>Top tips to prepare</h3>
       <ul>
-        <li><strong>Finish the path first.</strong> The exam unlocks only after 100% of the Wi-Fi Penetration Tester path, so complete every module before you book. (JXoaT, HTB)</li>
-        <li><strong>Practice full attack chains.</strong> Rehearse a corporate Wi-Fi engagement end to end, from recon to domain compromise, like the last module. (JXoaT, HTB)</li>
-        <li><strong>Stay in scope and document.</strong> Read the letter of engagement, and write up each finding with remediation in the template as you go. (JXoaT, HTB)</li>
-        <li><strong>Get fluent with the tooling.</strong> Be quick with aircrack-ng capture, and with eaphammer and wifipumpkin3 for WPA-Enterprise and evil-twin attacks. (JXoaT, V0lk3n)</li>
-        <li><strong>Know the protocols cold.</strong> Study how WEP, WPA, WPA2, and WPA3 differ, since the path attacks all four. (armourinfosec)</li>
+        <li><strong>Go through the path twice.</strong> The exam unlocks after 100% of the path, but finishing isn't the same as understanding. Do it once to complete it and again to really learn it. (InfoSec Pat, JXoaT)</li>
+        <li><strong>Read the rules of engagement.</strong> Missing something there is why InfoSec Pat failed his first attempt. Stay in scope, and write up each finding with remediation in the template as you go. (InfoSec Pat, JXoaT)</li>
+        <li><strong>Slow down and pick tools last.</strong> Identify the technology in use and what you're trying to accomplish, then choose a technique. InfoSec Pat calls methodology his biggest lesson. (InfoSec Pat)</li>
+        <li><strong>Practice full attack chains.</strong> Rehearse a corporate Wi-Fi engagement end to end, from recon through the wireless network to domain compromise, like the last module. (JXoaT, InfoSec Pat)</li>
+        <li><strong>Know the protocols and the tooling.</strong> Study how WEP, WPA, WPA2, and WPA3 differ, and be quick with aircrack-ng capture and with eaphammer and wifipumpkin3 for WPA-Enterprise and evil-twin attacks. (InfoSec Pat, armourinfosec, JXoaT, V0lk3n)</li>
       </ul>
       <p>The full list of tips is at the bottom of the <strong>Resources</strong> tab.</p>
 
@@ -728,7 +728,7 @@
         <li>All progress is saved in your browser. Use <strong>Export backup</strong> regularly to keep a copy.</li>
       </ul>
 
-      <div class="callout">CWPE launched in 2026, so there are no exam-taker write-ups yet. Lean on the last module, Attacking Corporate Wi-Fi Networks, which runs a full engagement end to end, and practice the report in the provided template before you book.</div>
+      <div class="callout">CWPE launched in 2026, so exam-taker reviews are still rare. Lean on the last module, Attacking Corporate Wi-Fi Networks, which runs a full engagement end to end, and practice the report in the provided template before you book.</div>
 
       <p style="font-size:12px;color:var(--faint);margin-top:14px">This is an independent study aid and is not affiliated with or endorsed by Hack The Box. Always confirm current module counts, exam format, and pricing on the official HTB Academy site.</p>
       <p style="font-size:12px;color:var(--faint);margin-top:6px">Built on and inspired by mattrfield's <a href="https://github.com/mattrfield/coae-study-tracker">coae-study-tracker</a>.</p>
@@ -2106,7 +2106,7 @@ const RESOURCES = [
   },
   {
     "cat": "Video Series & Reviews",
-    "note": "Watch this before you start to set expectations. It reviews the Wi-Fi Pentesting path that preps for CWPE.",
+    "note": "Watch these before you start to set expectations for the Wi-Fi Pentesting path and the CWPE exam.",
     "items": [
       {
         "n": "WiFi Penetration Testing Training That's Actually Worth It (HaxrByte)",
@@ -2114,12 +2114,19 @@ const RESOURCES = [
         "note": "First-hand review of HTB's Wi-Fi Pentesting path and the CWPE exam",
         "k": "Video",
         "d": "youtube.com"
+      },
+      {
+        "n": "How To Pass The Hack The Box CWPE Exam (InfoSec Pat)",
+        "u": "https://www.youtube.com/watch?v=4-Xlki7Noqg",
+        "note": "22-minute pass review: why he failed his first attempt, his methodology, and how to prepare",
+        "k": "Video",
+        "d": "youtube.com"
       }
     ]
   },
   {
     "cat": "News & Overviews",
-    "note": "CWPE launched in 2026, so there are no exam-taker write-ups yet. These are HTB's own overviews.",
+    "note": "These are HTB's own overviews of the cert.",
     "items": [
       {
         "n": "Bring your attack surface to the air: HTB CWPE (HTB blog)",
@@ -2393,9 +2400,49 @@ const RESOURCES = [
   },
   {
     "cat": "Study & Prep Tips",
-    "note": "CWPE is new, so these come from HTB's official guidance and wireless-pentest references, not exam-takers.",
+    "note": "CWPE is new, so exam-taker tips are still rare. InfoSec Pat's come from passing the exam. The rest come from HTB's official guidance, a path review and wireless-pentest references.",
     "layout": "tips",
     "items": [
+      {
+        "n": "Go through the path twice: the first time to do it, the second to really understand it",
+        "note": "InfoSec Pat"
+      },
+      {
+        "n": "Don't book the exam just because you finished the path, since completing a module isn't the same as understanding it",
+        "note": "InfoSec Pat"
+      },
+      {
+        "n": "Read the rules of engagement closely, because missing something there cost him his first attempt",
+        "note": "InfoSec Pat"
+      },
+      {
+        "n": "Slow down and identify the technology in use before you pick a tool",
+        "note": "InfoSec Pat"
+      },
+      {
+        "n": "Follow one method: scope, enumerate networks, identify authentication, map attack paths, then validate a technique",
+        "note": "InfoSec Pat"
+      },
+      {
+        "n": "Document evidence and business impact as you go, then finish with a professional report",
+        "note": "InfoSec Pat"
+      },
+      {
+        "n": "Keep a notebook organized by topic, tool, command, attack path and remediation, since you'll need it for the report",
+        "note": "InfoSec Pat"
+      },
+      {
+        "n": "Know the four-way handshake, why password attacks work on WPA and WPA2, and how WPA3 changes that",
+        "note": "InfoSec Pat"
+      },
+      {
+        "n": "Understand 802.1X, EAP, RADIUS and certificate-based authentication for corporate Wi-Fi",
+        "note": "InfoSec Pat"
+      },
+      {
+        "n": "Practice the path from the wireless network into the internal network",
+        "note": "InfoSec Pat"
+      },
       {
         "n": "Finish the full Wi-Fi Penetration Tester path before booking",
         "note": "JXoaT"
@@ -2482,9 +2529,9 @@ const RES_FAV = [
   },
   {
     "slot": "Video",
-    "n": "WiFi Penetration Testing Training That's Actually Worth It (HaxrByte)",
-    "u": "https://www.youtube.com/watch?v=uaQFFFh6Y6A",
-    "note": "First-hand review of HTB's Wi-Fi Pentesting path and the CWPE exam",
+    "n": "How To Pass The Hack The Box CWPE Exam (InfoSec Pat)",
+    "u": "https://www.youtube.com/watch?v=4-Xlki7Noqg",
+    "note": "22-minute pass review: why he failed his first attempt, his methodology, and how to prepare",
     "k": "Video",
     "d": "youtube.com",
     "sec": "Video Series & Reviews"

diff --git a/cwpe/index.html b/cwpe/index.html
@@ -126,7 +126,7 @@
         <h2>Resources</h2>
         <p>Every link from the CWPE tracker on one page: the official path, videos, write-ups and GitHub repos. Search it or browse by section.</p>
         <ul><li>My top picks, one for each part of your prep</li><li>Search everything or filter by type: videos, GitHub, write-ups</li><li>What the CWPE costs on your timeline, plan by plan</li></ul>
-        <div class="acts"><a class="primary" href="./resources/">Open resources &rarr;</a><span class="count">52 links</span></div>
+        <div class="acts"><a class="primary" href="./resources/">Open resources &rarr;</a><span class="count">53 links</span></div>
       </div>
       <div class="shot art"><img src="../assets/shots/cwpe-resources.webp" alt="CWPE resources" width="520" height="390" loading="lazy"></div>
     </section>
